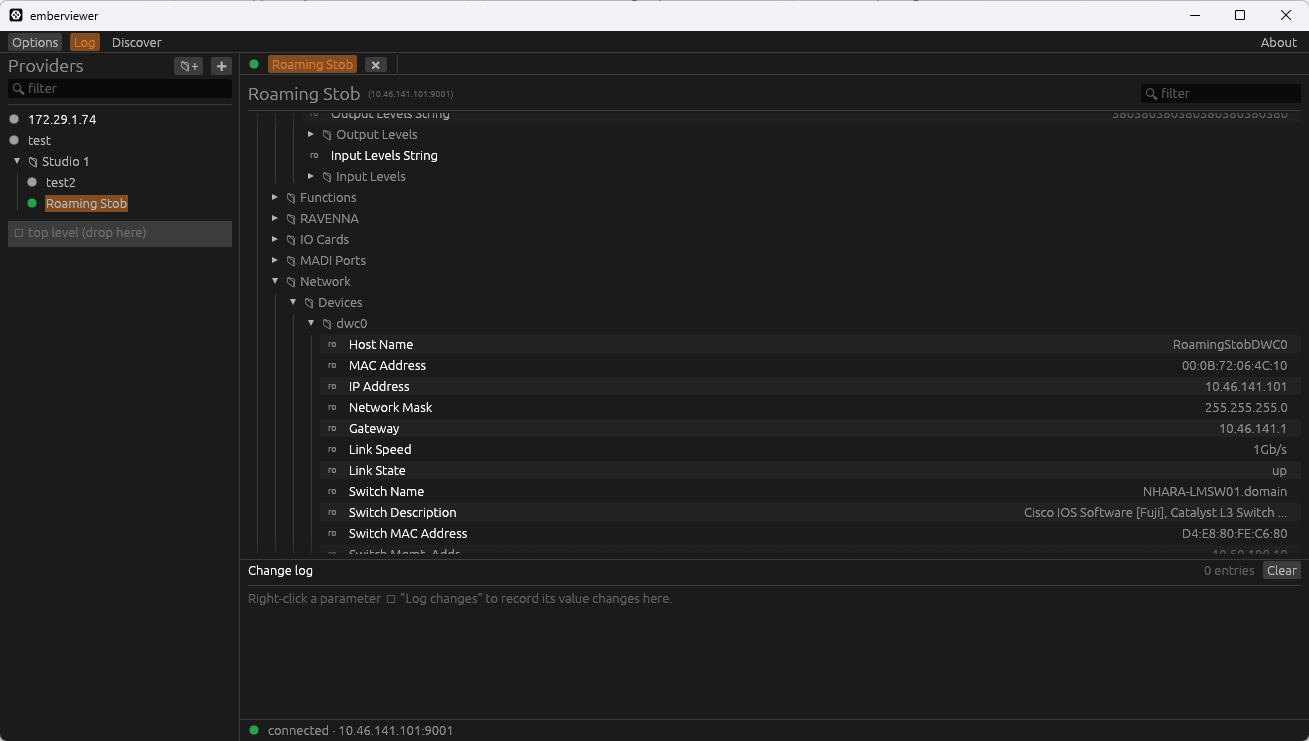
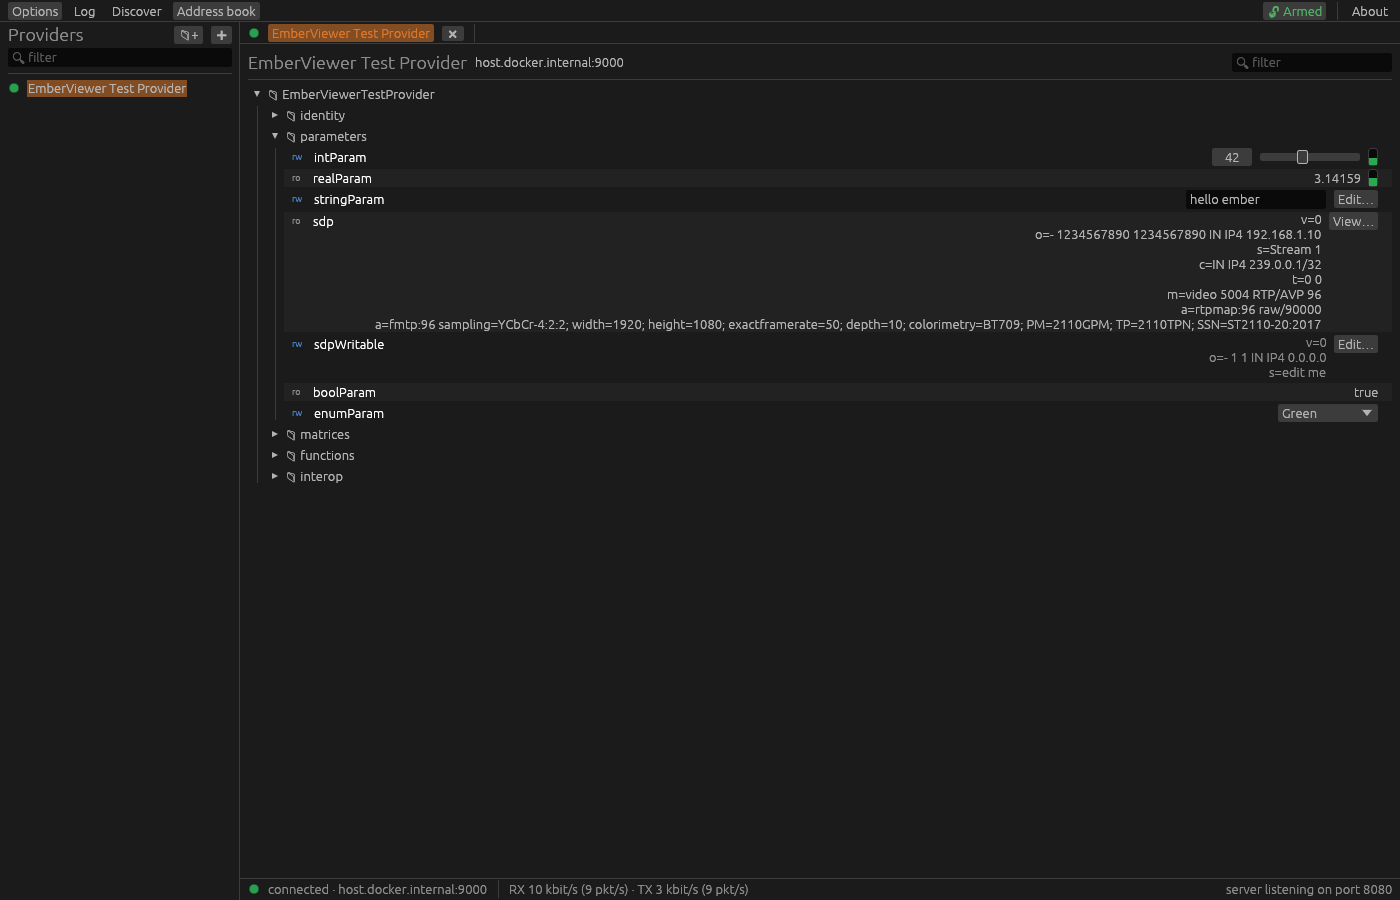
Refresh docs site screenshots to match the current app
The carousel showed stale screenshots with one outright wrong caption
(claimed a phone-browser screenshot that was actually the desktop app). Swap
in current screenshots taken against a running v0.2.11 build: tree browsing
with live values, the new matrix crosshair/sticky-header view, the server
mode Options dialog with its QR code, and a genuine phone-width capture of
the web UI. Captions and alt text updated to match; carousel gains a fourth
slide/dot.

diff --git a/docs/index.html b/docs/index.html
@@ -209,16 +209,20 @@
         <div class="carousel-viewport">
           <div class="carousel-track">
             <figure class="slide">
-              <img src="MainScreenshot.png" alt="emberviewer main window: provider sidebar, tree browser with live values, and a matrix crosspoint grid" loading="lazy" />
-              <figcaption>Address-book sidebar, lazy tree browser with a live value column, and the matrix crosspoint grid.</figcaption>
+              <img src="MainScreenshot.png" alt="emberviewer tree browser showing integer, real, string and enum parameters with live values, sliders and an SDP text view" loading="lazy" />
+              <figcaption>Live tree browsing: sliders, live values, string and SDP editors, enum pickers - all with live subscriptions.</figcaption>
             </figure>
             <figure class="slide">
-              <img src="Screenshot2.png" alt="emberviewer screenshot" loading="lazy" />
-              <figcaption>Matrix routing with device-resolved source/target labels and the signal-parameters popup.</figcaption>
+              <img src="Screenshot2.png" alt="emberviewer matrix crosspoint grid with a blue crosshair highlighting the hovered row and column, sticky row/column headers, and orange connected crosspoints" loading="lazy" />
+              <figcaption>Matrix routing on a 40x70 router: a crosshair highlights the hovered row and column, with sticky headers so labels stay put while you scroll.</figcaption>
             </figure>
             <figure class="slide">
-              <img src="Screenshot3.png" alt="emberviewer screenshot" loading="lazy" />
-              <figcaption>Server mode: the same interface running in a phone browser over the WiFi.</figcaption>
+              <img src="Screenshot3.png" alt="emberviewer Options dialog showing server mode settings - port, access token, open-LAN and read-only toggles - and a QR code to open the web UI on a phone" loading="lazy" />
+              <figcaption>Server mode setup: token-protected by default, with a QR code for one-tap joining from a phone.</figcaption>
+            </figure>
+            <figure class="slide">
+              <img src="Screenshot4.png" alt="The emberviewer web UI open in a narrow phone-width browser window, showing the same provider tree and a matrix with the crosshair highlight active" loading="lazy" />
+              <figcaption>Server mode in practice: the same tree and matrix, open in a phone's browser over the WiFi.</figcaption>
             </figure>
           </div>
           <button class="carousel-arrow prev" type="button" aria-label="Previous screenshot">
@@ -232,6 +236,7 @@
           <button class="dot is-active" type="button" aria-label="Screenshot 1"></button>
           <button class="dot" type="button" aria-label="Screenshot 2"></button>
           <button class="dot" type="button" aria-label="Screenshot 3"></button>
+          <button class="dot" type="button" aria-label="Screenshot 4"></button>
         </div>
       </div>
     </div>